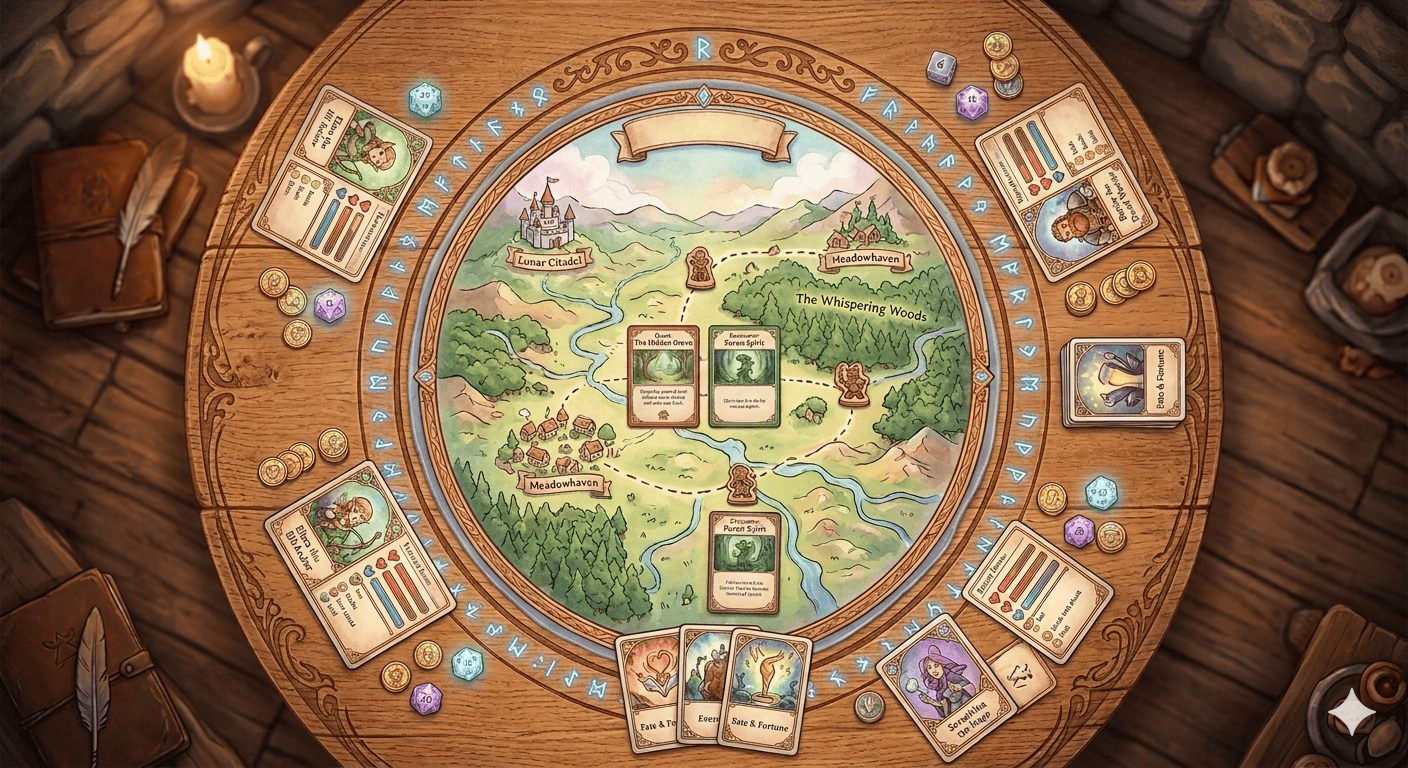
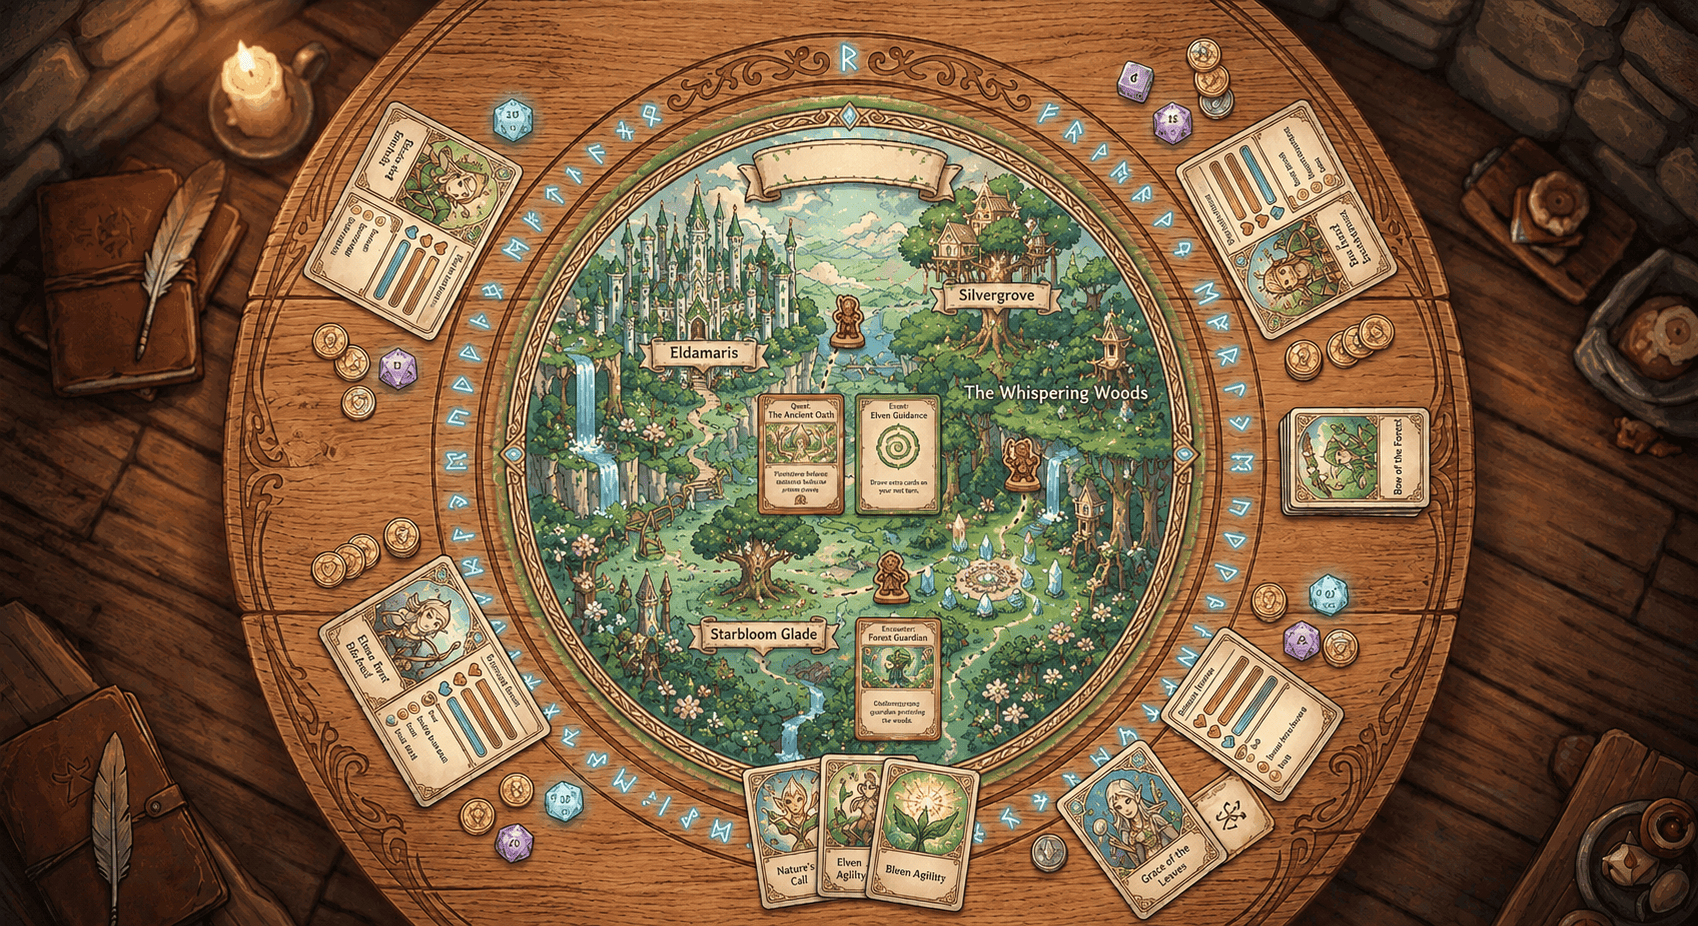
Prepared new bg and dummy card game for mask

diff --git a/src/styles/dash-game-card-dummy-png-preview.css b/src/styles/dash-game-card-dummy-png-preview.css
@@ -1,0 +1,203 @@
+/**
+ * DashGameCardDummyPngPreview — isolated _2 card art test harness.
+ * Masks: src/assets/duel/masks/_2_mask_*.png (600×600, binary — skalowane do karty)
+ *
+ * Override colors:
+ *   --dg2-clr           circle accent
+ *   --dg2-mask-top      top panel fill (gradient ok)
+ *   --dg2-mask-bottom   bottom panel fill
+ */
+
+.dg2Card {
+    --dg2-clr: #4589cc;
+    --dg2-mask-top: var(--app-game-card-top-bg);
+    --dg2-mask-bottom: var(--app-game-card-bottom-bg);
+
+    position: relative;
+    width: 300px;
+    height: 300px;
+    margin: 25px 64px 30px;
+    overflow: hidden;
+    isolation: isolate;
+}
+
+.dg2Card__layers {
+    position: absolute;
+    inset: -3px;
+    z-index: 0;
+    pointer-events: none;
+}
+
+.dg2Card__layer {
+    position: absolute;
+    inset: 0;
+    background: var(--dg2-layer-fill);
+    -webkit-mask-image: var(--dg2-layer-mask);
+    mask-image: var(--dg2-layer-mask);
+    -webkit-mask-repeat: no-repeat;
+    mask-repeat: no-repeat;
+    -webkit-mask-position: center;
+    mask-position: center;
+    -webkit-mask-size: 100% 100%;
+    mask-size: 100% 100%;
+    -webkit-mask-mode: alpha;
+    mask-mode: alpha;
+}
+
+.dg2Card__layer--bottom {
+    z-index: 1;
+    --dg2-layer-fill: var(--dg2-mask-bottom);
+    --dg2-layer-mask: url('@/assets/duel/masks/_2_mask_bottom.png');
+}
+
+.dg2Card__layer--top {
+    z-index: 2;
+    --dg2-layer-fill: var(--dg2-mask-top);
+    --dg2-layer-mask: url('@/assets/duel/masks/_2_mask_top.png');
+}
+
+.dg2Card__top,
+.dg2Card__bottom {
+    position: absolute;
+    z-index: 2;
+    margin: 0;
+    padding: 0;
+    background: transparent;
+    display: flex;
+    align-items: center;
+    justify-content: center;
+    text-align: center;
+    color: rgb(255 255 255 / 94%);
+    text-shadow: 0 1px 2px rgb(0 0 0 / 35%);
+}
+
+.dg2Card__top {
+    top: 5.08%;
+    left: 39.1%;
+    right: 8.2%;
+    height: 29.4%;
+    padding: 0 10px;
+    font-family: var(--font-arcade);
+    font-weight: 600;
+    font-size: 0.72rem;
+    letter-spacing: 0.14em;
+    text-transform: uppercase;
+}
+
+.dg2Card__bottom {
+    top: 52%;
+    left: 39.1%;
+    right: 8.2%;
+    bottom: 22%;
+    min-height: 0;
+    padding: 0 8px;
+}
+
+.dg2Card__bottom p {
+    margin: 0;
+    font-size: 10.5px;
+    line-height: 1.32;
+    text-align: center;
+    color: rgb(255 255 255 / 88%);
+    text-shadow: 0 1px 2px rgb(0 0 0 / 30%);
+}
+
+.dg2Card__buttonRow {
+    position: absolute;
+    z-index: 5;
+    top: 48.5%;
+    left: 31.6%;
+    width: 44.5%;
+    height: 6.2%;
+    margin: 0;
+    display: flex;
+    align-items: center;
+    justify-content: center;
+}
+
+.dg2Card__button {
+    width: 100%;
+    height: 100%;
+    min-height: 0;
+    padding: 0 8px;
+    border: none;
+    border-radius: 999px;
+    background: rgb(18 12 8 / 72%);
+    color: rgb(255 255 255 / 94%);
+    font-family: var(--font-arcade);
+    font-size: 9px;
+    font-weight: 600;
+    letter-spacing: 0.12em;
+    text-transform: uppercase;
+    cursor: pointer;
+    box-shadow: inset 0 1px 0 rgb(255 255 255 / 6%);
+}
+
+.dg2Card__button:hover:not(:disabled) {
+    filter: brightness(1.06);
+}
+
+.dg2Card__lobby {
+    position: absolute;
+    z-index: 5;
+    top: 87.2%;
+    left: 31.6%;
+    width: 44.5%;
+    margin: 0;
+    padding: 2px 10px;
+    border-radius: 999px;
+    background: rgb(12 9 6 / 82%);
+    color: rgb(236 228 216 / 92%);
+    font-size: 9px;
+}
+
+.dg2Card__lobby > p {
+    margin: 0;
+    text-align: center;
+    line-height: 1.2;
+}
+
+.dg2Card__circle {
+    position: absolute;
+    z-index: 4;
+    top: 21.1%;
+    left: 3.2%;
+    width: 34.2%;
+    height: 34.2%;
+    border-radius: 50%;
+    display: flex;
+    flex-direction: column;
+    align-items: center;
+    justify-content: center;
+    background-color: var(--dg2-clr);
+    background-image: radial-gradient(
+        ellipse 92% 88% at 30% 18%,
+        rgb(255 255 255 / 30%) 0%,
+        rgb(255 255 255 / 10%) 28%,
+        transparent 52%
+    );
+    border: 2px solid rgb(0 0 0 / 18%);
+    box-shadow:
+        12px 12px 16px 0 rgb(255 255 255 / 28%) inset,
+        -8px -8px 12px 0 rgb(0 0 0 / 22%) inset;
+    color: rgb(255 255 255 / 96%);
+    text-shadow: 0 1px 3px rgb(0 0 0 / 45%);
+}
+
+.dg2Card__circle > h2 {
+    font-family: var(--font-arcade);
+    font-size: 15px;
+    font-weight: 700;
+    letter-spacing: 0.1em;
+    margin: 0 0 2px;
+    text-transform: uppercase;
+}
+
+.dg2Card__circle > p {
+    font-family: var(--font-arcade);
+    font-size: 9px;
+    font-weight: 500;
+    letter-spacing: 0.1em;
+    line-height: 1.35;
+    margin: 0;
+}

diff --git a/src/components/dashboard/DashGameCardDummyPngPreview.tsx b/src/components/dashboard/DashGameCardDummyPngPreview.tsx
@@ -1,0 +1,68 @@
+import type { CSSProperties, ReactNode } from 'react';
+import '@/styles/dash-game-card-dummy-png-preview.css';
+
+type DashGameCardDummyPngPreviewProps = {
+    color?: string;
+    title?: string;
+    subtitle?: string;
+    players?: string;
+    topLabel?: string;
+    description?: string;
+    lobbyLabel?: string;
+    buttonLabel?: string;
+    className?: string;
+    style?: CSSProperties;
+    children?: ReactNode;
+};
+
+/** Drop `<DashGameCardDummyPngPreview />` anywhere to test _2 PNG masks. */
+export function DashGameCardDummyPngPreview({
+    color = '#4589cc',
+    title = 'Duel',
+    subtitle = 'Free',
+    players = '0/2',
+    topLabel = 'Video soon!',
+    description = "A board game inspired by a strategy game called '7 Wonders of the World'",
+    lobbyLabel = 'No players in lobby.',
+    buttonLabel = 'Lobby',
+    className,
+    style,
+    children
+}: DashGameCardDummyPngPreviewProps) {
+    return (
+        <article
+            className={['dg2Card', className].filter(Boolean).join(' ')}
+            style={{ '--dg2-clr': color, ...style } as CSSProperties}
+            aria-label="Game card PNG mask preview"
+        >
+            <div className="dg2Card__layers" aria-hidden>
+                <span className="dg2Card__layer dg2Card__layer--bottom" />
+                <span className="dg2Card__layer dg2Card__layer--top" />
+            </div>
+
+            <div className="dg2Card__top">{topLabel}</div>
+
+            <div className="dg2Card__buttonRow">
+                <button type="button" className="dg2Card__button">
+                    {buttonLabel}
+                </button>
+            </div>
+
+            <div className="dg2Card__bottom">
+                <p>{description}</p>
+            </div>
+
+            <div className="dg2Card__lobby">
+                <p>{lobbyLabel}</p>
+            </div>
+
+            <div className="dg2Card__circle">
+                <h2>{title}</h2>
+                <p>{subtitle}</p>
+                <p>{players}</p>
+            </div>
+
+            {children}
+        </article>
+    );
+}

diff --git a/src/pages/DashboardPage.tsx b/src/pages/DashboardPage.tsx
@@ -41,6 +41,7 @@ import { MobileHamburgerMenu } from '@/components/MobileHamburgerMenu';
 import { SkeletonDot, SkeletonInput, SkeletonTag, SkeletonText } from '@/components/Skeleton';
 import { getNextTheme, getThemeLabel, getThemeSwitchTitle, type AppTheme } from '@/hooks/useAppTheme';
 import '@/styles/dashboard.css';
+import { DashGameCardDummyPngPreview } from '@/components/dashboard/DashGameCardDummyPngPreview';
 
 const MAX_DISPLAY_NAME_LENGTH = 32;
 
@@ -1163,6 +1164,8 @@ export function DashboardPage({
 
             <section className={`dashWrapper ${showDuelLobbyModal ? 'modalOpen' : ''}`}>
                 <div className="dashScrollViewport dashGameContainer modalLikeScrollbar">
+                    <DashGameCardDummyPngPreview />
+
                     <article className="dashCard" style={{ '--dash-clr': '#4589cc' } as CSSProperties}>
                         <div className="dashBox dashBoxTop">Video soon!</div>
                         <div className="dashBox dashBoxBottom">

diff --git a/dist/index.html b/dist/index.html
@@ -11,8 +11,8 @@
             href="https://fonts.googleapis.com/css2?family=Cinzel:wght@600;700&family=Orbitron:wght@500;600;700&family=Source+Sans+3:ital,wght@0,400;0,500;0,600;0,700;1,400&display=block"
             rel="stylesheet"
         />
-      <script type="module" crossorigin src="./assets/index-e8462f27.js"></script>
-      <link rel="stylesheet" href="./assets/index-ea734565.css">
+      <script type="module" crossorigin src="./assets/index-035157cc.js"></script>
+      <link rel="stylesheet" href="./assets/index-14a8dd40.css">
     </head>
     <body>
         <div id="app"></div>
